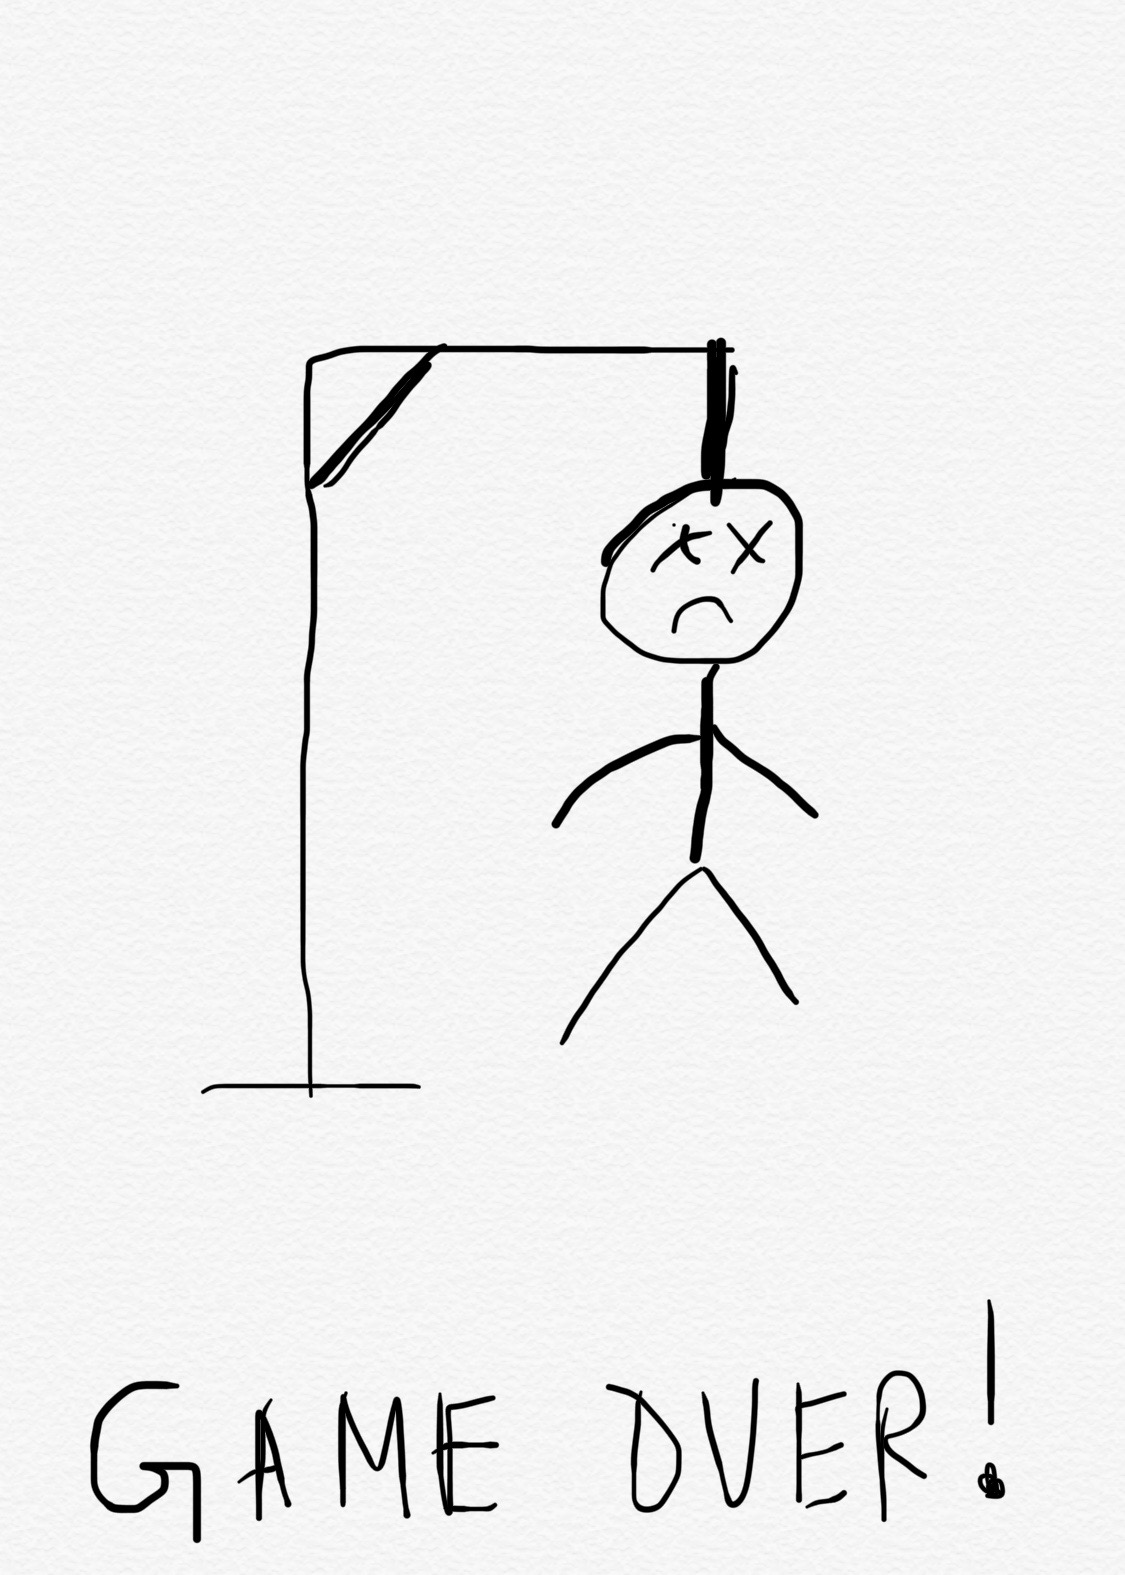
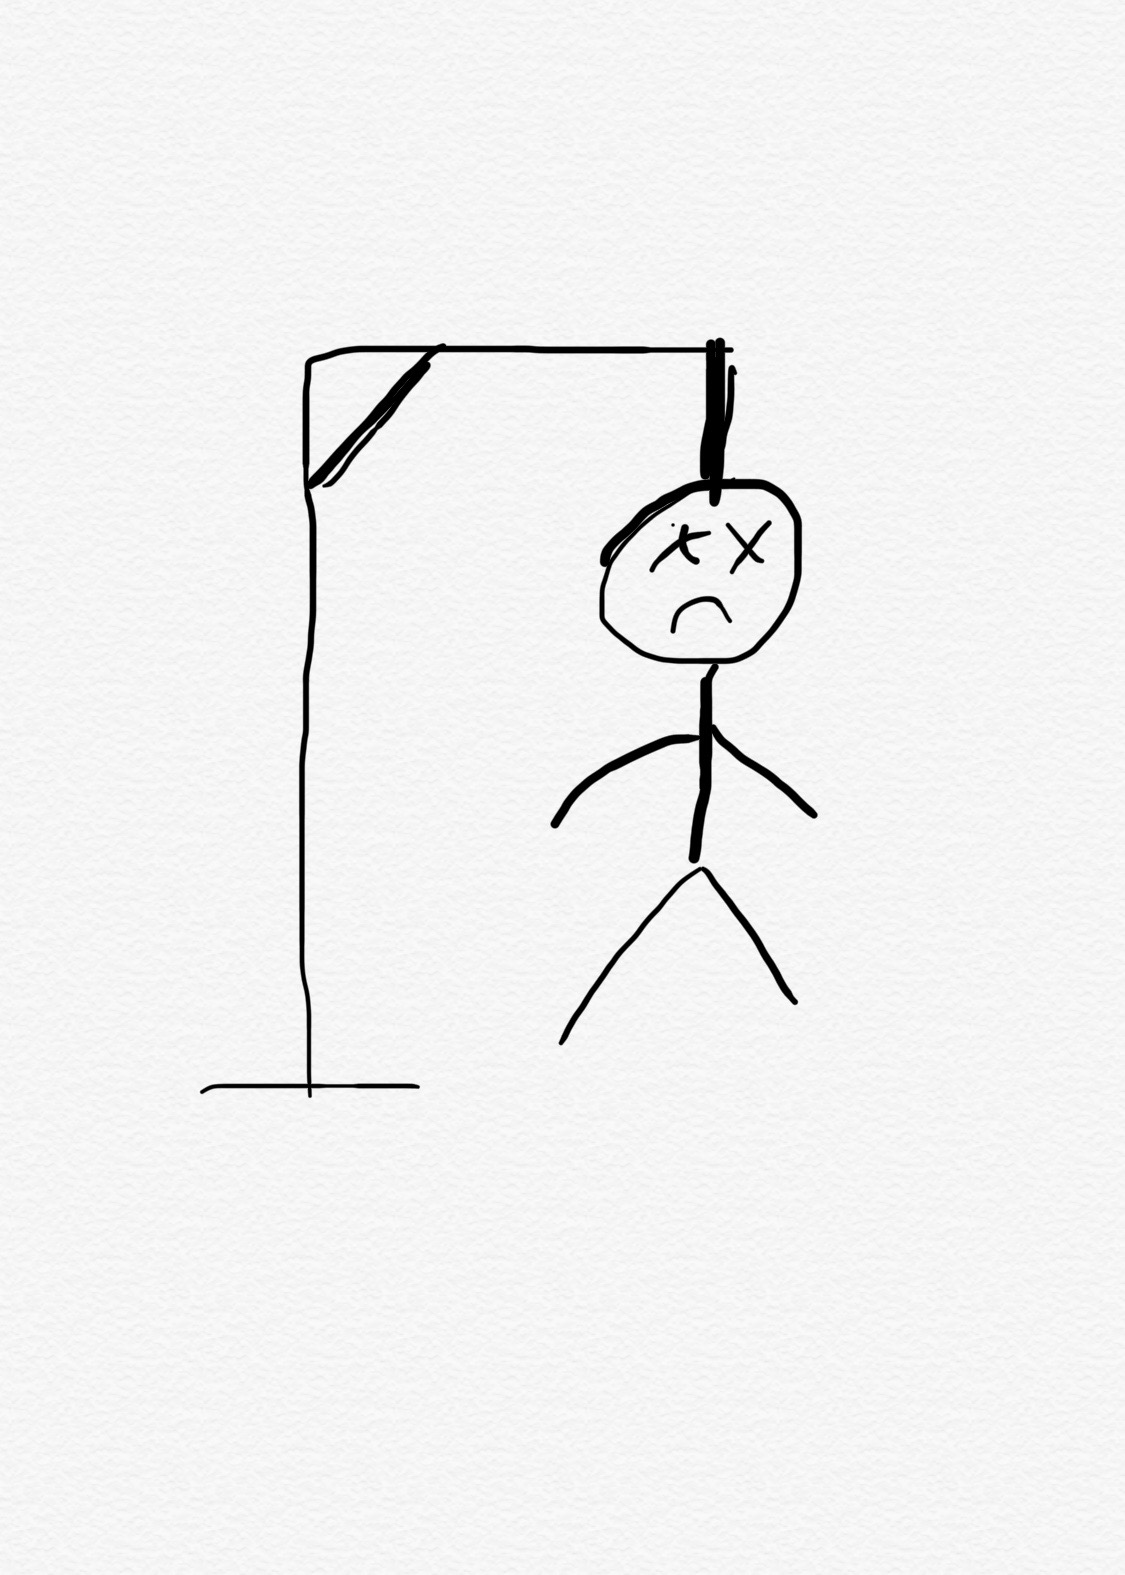
if player two loses show word, done

diff --git a/script.js b/script.js
@@ -75,7 +75,24 @@ console.log(currentImg)
     }
     if (currentImg === "http://127.0.0.1:5500/imgs/hmsix.jpg") {
     document.getElementById("img").src = "../imgs/hmsvn.jpg";
+    document.getElementById("status").innerHTML = "GAME OVER";
+    document.getElementById("status").style.color = "red";
+    document.getElementById("answer").innerHTML = "Player one wins!";
+    document.getElementById("answer2").innerHTML = "The word was:";
+
+   
+    let z = 0 
+    while(z < word.length) {
+
+        let l = word.charAt(z)
+
+        var cont = document.getElementsByClassName("container")[0];
+            cont.getElementsByClassName("letter")[z].innerHTML = l;
+    z++
     }
+
+    }
+  
  }
  var divcontent = document.getElementsByClassName("letter").item(io).innerHTML;
 

diff --git a/index.html b/index.html
@@ -18,12 +18,16 @@
         <button type="submit" value="Submit" class="button">Enter</button>  
     </form>
 
-      <div class="ptwoinstr">Player two, guess that word!</div>
+      <div id="status">Player two, guess that word!</div>
      
 
       <div class="hmpic"><img src="../imgs/hmone.jpg" alt='blank pic' width='200' height='200' id="img"></div>
       
-
+      <div id="answer"></div>
+      <br >
+      <div id="answer2"></div>
+      <br >
+      <br >
       <div class="container">
       <!-- <div class="letter"></div> 
       <div class="letter"></div>

diff --git a/style.css b/style.css
@@ -96,12 +96,23 @@ body {
     transform: translateY(4px);
 }
 
-.ptwoinstr {
+#status {
  text-align: center;
  margin-top: 20px; 
  margin-bottom: 40px;
 }
 
+
+#answer {
+  text-align: center;
+  color: red;
+}
+
+
+#answer2 {
+  text-align: center;
+  color: red;
+}
 .letter {
   border-bottom: 3px solid black;
   width: 15px;
